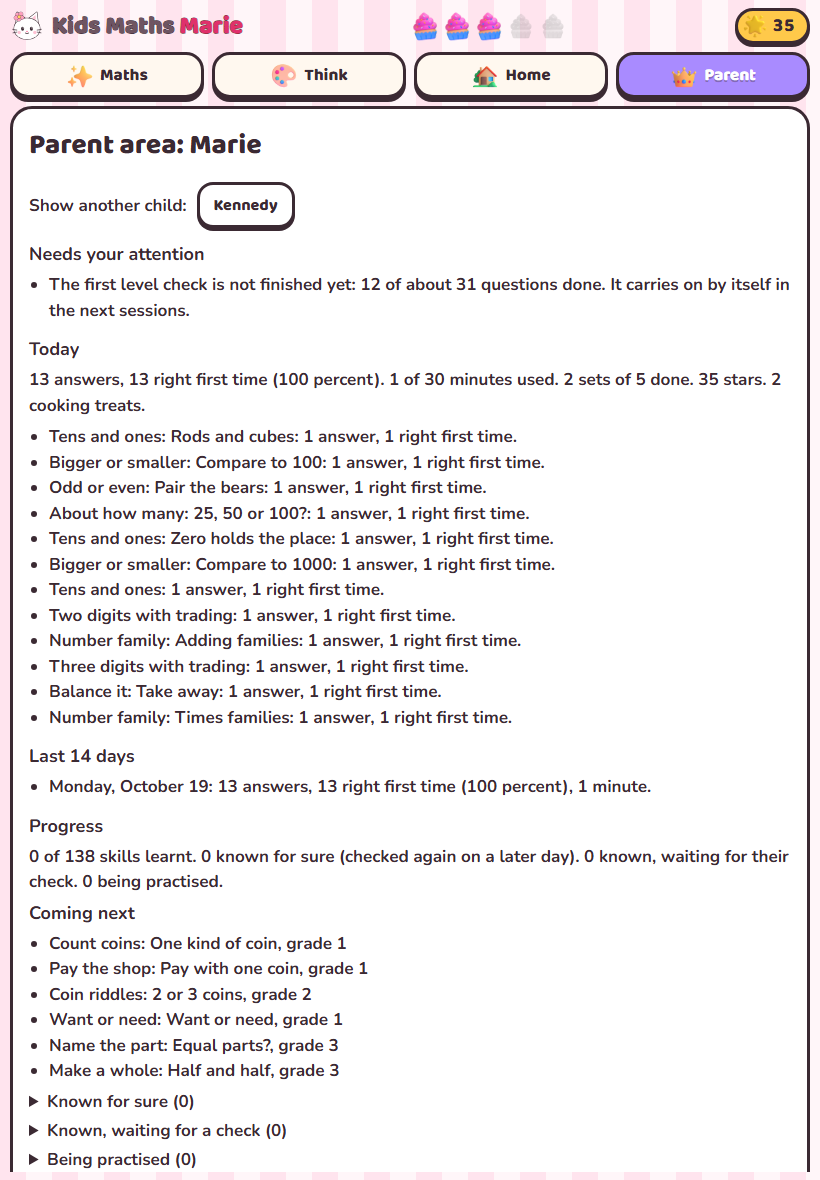
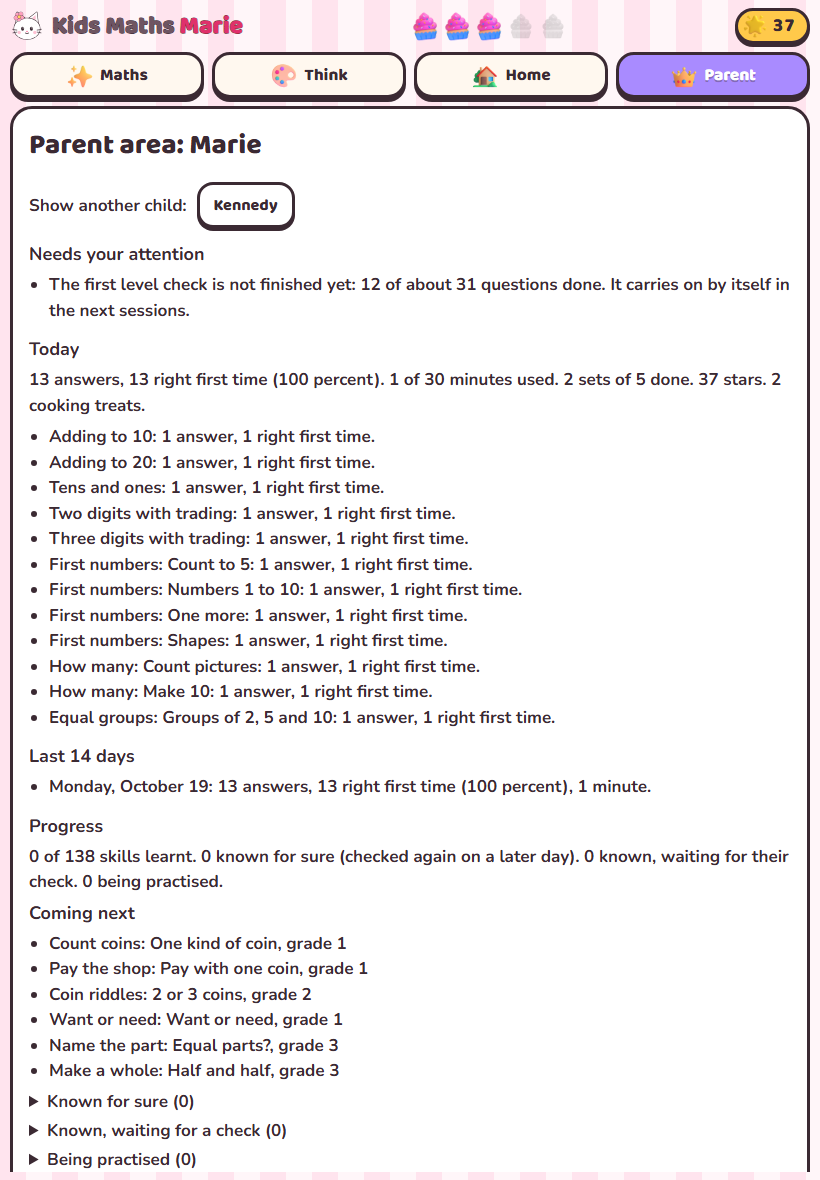
Main road first: sums and taking away lead, one game per set, counting games removed
Claude-Session: https://claude.ai/code/session_01T9KPNPMjnDcrQKtsaSJi3w

Changed region(s): [[0.061, 0.3661, 0.6707, 0.6407]]

diff --git a/modules/engine.js b/modules/engine.js
@@ -23,6 +23,23 @@
     { id: "shapes", name: "Shapes, measuring, graphs and patterns", max: 3 }
   ];
   const PLACE_MAX = 35;
+  // The main road: adding and taking away first (Kennedy: first numbers, then adding). Other topics come in
+  // as 1 set in 4, and only once the first steps of the main road are solid (Aldrin, 19 Oct 2026).
+  const PLACE_ORDER = { kennedy: ["count", "add", "shapes"], other: ["add", "count", "times", "fractions", "money_time", "shapes"] };
+  const CORE = { kennedy: id => /^kinder\./.test(id) || id === "sums.1" || id === "sums.2", other: id => /^sums\./.test(id) };
+  const CORE_FIRST = { kennedy: ["kinder.1"], other: ["sums.1", "sums.2"] };
+  const prof = st => st.profile === "kennedy" ? "kennedy" : "other";
+  // The main road also holds every skill a main-road skill needs first (for example make 10 before adding to 20).
+  const roads = new WeakMap();
+  function road(st) {
+    const M = st._M; if (!M) return null;
+    let r = roads.get(M); if (!r) roads.set(M, r = {});
+    const k = prof(st); if (r[k]) return r[k];
+    const set = new Set(), add = id => { if (set.has(id) || !M.map[id]) return; set.add(id); M.map[id].needs.forEach(add); };
+    M.order.filter(id => CORE[k](id)).forEach(add);
+    return (r[k] = set);
+  }
+  const isCore = (st, id) => { const r = road(st); return r ? r.has(id) : CORE[prof(st)](id); };
 
   /* ---------- The skill map ----------
      Each playable level of each game is one skill. Skills from the Sums screen and the new Grade 4 games are added.
@@ -49,9 +66,11 @@
   // Skills whose games are not built yet go here as [id, name, grade, group, needs]; the engine skips them.
   const LATER = [];
 
+  // Counting games are taken out: both children already count well (Aldrin, 19 Oct 2026). Make 10 stays (it is adding).
+  const RETIRED = new Set(["kinder.0", "kinder.1", "kinder.3", "kinder.4", "count_quick.0", "count_quick.1", "count_quick.2", "count_quick.4", "count_quick.5", "estimate.0", "estimate.1"]);
   function buildSkillMap(topics, extra) {
     const map = {}, order = [];
-    const add = s => { map[s.id] = s; order.push(s.id); };
+    const add = s => { if (RETIRED.has(s.id)) return; map[s.id] = s; order.push(s.id); };
     SUMS.forEach(([id, name, grade], i) => add({ id, name, grade, group: "add", needs: SUMS_NEEDS[id] || [], play: { src: "sums", level: i + 1 }, ready: true }));
     (topics || []).forEach(t => {
       if (!t || !t.id || !Array.isArray(t.levels)) return;
@@ -80,21 +99,29 @@
 
   /* ---------- Placement (design 3.4) ---------- */
   function groupList(M, gid) { return M.order.filter(id => M.map[id].ready && M.map[id].group === gid).sort((a, b) => M.map[a].grade - M.map[b].grade || M.order.indexOf(a) - M.order.indexOf(b)); }
+  // In placement the adding group uses only the Sums game, and Kennedy's counting group starts with his first numbers.
+  function placeList(st, M, gid) {
+    const list = groupList(M, gid);
+    if (gid === "add") return list.filter(id => /^sums\./.test(id) && (prof(st) !== "kennedy" || +id.split(".")[1] <= 4));   // Kennedy: sums to 20 at most
+    if (gid === "count" && prof(st) === "kennedy") return list.filter(id => /^kinder\.|^count_quick\./.test(id));
+    return list;
+  }
   function placementNext(st, M) {
     const P = st.place;
     while (!P.done) {
-      if (P.asked >= PLACE_MAX || P.group >= GROUPS.length) { finishPlacement(st, M); return null; }
-      const g = GROUPS[P.group], list = groupList(M, g.id);
-      const skipGroup = !list.length || (st.profile === "kennedy" && g.id !== "count" && g.id !== "add" && g.id !== "shapes");
+      const order = PLACE_ORDER[prof(st)];
+      if (P.asked >= PLACE_MAX || P.group >= order.length) { finishPlacement(st, M); return null; }
+      const g = GROUPS.find(x => x.id === order[P.group]), list = placeList(st, M, g.id);
+      const skipGroup = !list.length;
       if (skipGroup || P.inGroup >= g.max || P.missRow >= 2) { P.group++; P.pos = -1; P.inGroup = 0; P.missRow = 0; continue; }
-      if (P.pos < 0) { const start = list.findIndex(id => M.map[id].grade >= rules(st).startGrade); P.pos = start < 0 ? list.length - 1 : start; }
+      if (P.pos < 0) { const start = g.id === "add" || g.id === "count" ? 0 : list.findIndex(id => M.map[id].grade >= rules(st).startGrade); P.pos = start < 0 ? list.length - 1 : start; }
       P.pos = Math.max(0, Math.min(list.length - 1, P.pos));
       return { skill: list[P.pos], mode: "place", group: g.id };
     }
     return null;
   }
   function placementRecord(st, M, skillId, correct) {
-    const P = st.place, g = GROUPS[P.group], list = groupList(M, g.id);
+    const P = st.place, g = GROUPS.find(x => x.id === PLACE_ORDER[prof(st)][P.group]), list = placeList(st, M, g.id);
     P.asked++; P.inGroup++;
     if (correct) { P.missRow = 0; P.best[g.id] = Math.max(P.best[g.id] ?? -1, list.indexOf(skillId)); P.pos = Math.min(list.length - 1, P.pos + 2); }
     else { P.missRow++; P.pos = Math.max(0, P.pos - 1); }
@@ -104,7 +131,7 @@
     const P = st.place; P.done = true;
     const t = now || Date.now();
     GROUPS.forEach(g => {
-      const list = groupList(M, g.id), best = P.best[g.id] ?? -1;
+      const list = placeList(st, M, g.id), best = P.best[g.id] ?? -1;
       // Every skill below the highest right answer is a first guess at "knows it", checked soon with 2 quick questions.
       for (let i = 0; i < best; i++) { const s = sk(st, list[i]); if (s.lvl < LV.KNOWS) { s.lvl = LV.KNOWS; s.quick = true; s.due = t + DAY * (1 + (i % 3)); s.gap = 0; } }
     });
@@ -123,6 +150,7 @@
 
   function nextSet(st, M, now, rng) {
     rng = rng || Math.random;
+    const coreOpen = () => M.order.some(id => isCore(st, id) && M.map[id].ready && (st.skills[id]?.lvl || 0) < LV.KNOWS && !(st.skills[id]?.parkedUntil > now));
     if (st.paused) return { kind: "paused", items: [] };
     if (st.parentQs.length) return { kind: "parent", items: st.parentQs.slice(0, 5) };   // the parents' own questions come first
     if (!st.place.done) { const q = placementNext(st, M); if (q) return { kind: "place", target: q.skill, items: [q.skill] }; }
@@ -154,15 +182,23 @@
 
     // 4. Parent focus skills, then weak skills, then a skill already being learnt.
     const focus = st.focus.find(id => usable(id) && (st.skills[id]?.lvl || 0) < LV.KNOWS && M.map[id].needs.every(n => strong(st, n)));
-    if (focus) return make("focus", focus, (st.skills[focus]?.lvl || 0) < LV.PRACTISING ? 5 : 3);
-    const learning = M.order.filter(id => usable(id) && st.skills[id] && st.skills[id].lvl >= LV.SHOWN && st.skills[id].lvl < LV.KNOWS);
+    if (focus) return make("focus", focus, 5);
+    const learning = M.order.filter(id => usable(id) && st.skills[id] && st.skills[id].lvl >= LV.SHOWN && st.skills[id].lvl < LV.KNOWS)
+      .sort((a, b) => (isCore(st, b) ? 1 : 0) - (isCore(st, a) ? 1 : 0));
     const weak = learning.find(id => st.skills[id].recent.length >= 5 && acc(st.skills[id]) < .7);
-    if (weak) return make("weak", weak, 3);
-    if (learning.length) { const id = learning[0]; return make("learn", id, st.skills[id].lvl < LV.PRACTISING ? 5 : 3); }
+    if (weak) return make("weak", weak, 5);
+    if (learning.length && (isCore(st, learning[0]) || !coreOpen())) return make("learn", learning[0], 5);
 
     // 5. A new skill, from the group that is furthest behind; one group never fills more than 2 sets in a row.
     const lastGroups = st.sets.slice(-2).map(k => k.split(":")[1]);
-    const ready = M.order.filter(id => usable(id) && isReady(st, M, id, now));
+    const ready0 = M.order.filter(id => usable(id) && isReady(st, M, id, now));
+    const coreReady = ready0.filter(id => isCore(st, id));
+    const basics = CORE_FIRST[prof(st)].every(id => !M.map[id] || strong(st, id));
+    const coreRun = st.sets.slice(-3).filter(k => k.endsWith(":c")).length;
+    const otherTurn = basics && coreRun >= 3;
+    if (coreReady.length && !otherTurn) return make("new", coreReady[0], 5);
+    if (learning.length && !isCore(st, learning[0]) && basics) return make("learn", learning[0], 5);
+    const ready = basics ? ready0.filter(id => !isCore(st, id)).concat(coreReady) : coreReady.length ? coreReady : ready0;
     if (ready.length) {
       const behind = gid => { const ids = M.order.filter(id => M.map[id].group === gid && M.map[id].ready); return ids.reduce((a, id) => a + (st.skills[id]?.lvl || 0), 0) / Math.max(1, ids.length); };
       const blocked = lastGroups.length === 2 && lastGroups[0] === lastGroups[1] ? lastGroups[0] : null;
@@ -179,7 +215,7 @@
     return { kind: "empty", items: [] };
   }
   function finish(st, kind, target, items) {
-    st.sets.push(kind + ":" + ((st._M && st._M.map[target]) ? st._M.map[target].group : ""));
+    st.sets.push(kind + ":" + ((st._M && st._M.map[target]) ? st._M.map[target].group : "") + (isCore(st, target) ? ":c" : ":o"));
     if (st.sets.length > 40) st.sets = st.sets.slice(-40);
     return { kind, target, items };
   }

diff --git a/src/modules/engine.js b/src/modules/engine.js
@@ -23,6 +23,23 @@
     { id: "shapes", name: "Shapes, measuring, graphs and patterns", max: 3 }
   ];
   const PLACE_MAX = 35;
+  // The main road: adding and taking away first (Kennedy: first numbers, then adding). Other topics come in
+  // as 1 set in 4, and only once the first steps of the main road are solid (Aldrin, 19 Oct 2026).
+  const PLACE_ORDER = { kennedy: ["count", "add", "shapes"], other: ["add", "count", "times", "fractions", "money_time", "shapes"] };
+  const CORE = { kennedy: id => /^kinder\./.test(id) || id === "sums.1" || id === "sums.2", other: id => /^sums\./.test(id) };
+  const CORE_FIRST = { kennedy: ["kinder.1"], other: ["sums.1", "sums.2"] };
+  const prof = st => st.profile === "kennedy" ? "kennedy" : "other";
+  // The main road also holds every skill a main-road skill needs first (for example make 10 before adding to 20).
+  const roads = new WeakMap();
+  function road(st) {
+    const M = st._M; if (!M) return null;
+    let r = roads.get(M); if (!r) roads.set(M, r = {});
+    const k = prof(st); if (r[k]) return r[k];
+    const set = new Set(), add = id => { if (set.has(id) || !M.map[id]) return; set.add(id); M.map[id].needs.forEach(add); };
+    M.order.filter(id => CORE[k](id)).forEach(add);
+    return (r[k] = set);
+  }
+  const isCore = (st, id) => { const r = road(st); return r ? r.has(id) : CORE[prof(st)](id); };
 
   /* ---------- The skill map ----------
      Each playable level of each game is one skill. Skills from the Sums screen and the new Grade 4 games are added.
@@ -49,9 +66,11 @@
   // Skills whose games are not built yet go here as [id, name, grade, group, needs]; the engine skips them.
   const LATER = [];
 
+  // Counting games are taken out: both children already count well (Aldrin, 19 Oct 2026). Make 10 stays (it is adding).
+  const RETIRED = new Set(["kinder.0", "kinder.1", "kinder.3", "kinder.4", "count_quick.0", "count_quick.1", "count_quick.2", "count_quick.4", "count_quick.5", "estimate.0", "estimate.1"]);
   function buildSkillMap(topics, extra) {
     const map = {}, order = [];
-    const add = s => { map[s.id] = s; order.push(s.id); };
+    const add = s => { if (RETIRED.has(s.id)) return; map[s.id] = s; order.push(s.id); };
     SUMS.forEach(([id, name, grade], i) => add({ id, name, grade, group: "add", needs: SUMS_NEEDS[id] || [], play: { src: "sums", level: i + 1 }, ready: true }));
     (topics || []).forEach(t => {
       if (!t || !t.id || !Array.isArray(t.levels)) return;
@@ -80,21 +99,29 @@
 
   /* ---------- Placement (design 3.4) ---------- */
   function groupList(M, gid) { return M.order.filter(id => M.map[id].ready && M.map[id].group === gid).sort((a, b) => M.map[a].grade - M.map[b].grade || M.order.indexOf(a) - M.order.indexOf(b)); }
+  // In placement the adding group uses only the Sums game, and Kennedy's counting group starts with his first numbers.
+  function placeList(st, M, gid) {
+    const list = groupList(M, gid);
+    if (gid === "add") return list.filter(id => /^sums\./.test(id) && (prof(st) !== "kennedy" || +id.split(".")[1] <= 4));   // Kennedy: sums to 20 at most
+    if (gid === "count" && prof(st) === "kennedy") return list.filter(id => /^kinder\.|^count_quick\./.test(id));
+    return list;
+  }
   function placementNext(st, M) {
     const P = st.place;
     while (!P.done) {
-      if (P.asked >= PLACE_MAX || P.group >= GROUPS.length) { finishPlacement(st, M); return null; }
-      const g = GROUPS[P.group], list = groupList(M, g.id);
-      const skipGroup = !list.length || (st.profile === "kennedy" && g.id !== "count" && g.id !== "add" && g.id !== "shapes");
+      const order = PLACE_ORDER[prof(st)];
+      if (P.asked >= PLACE_MAX || P.group >= order.length) { finishPlacement(st, M); return null; }
+      const g = GROUPS.find(x => x.id === order[P.group]), list = placeList(st, M, g.id);
+      const skipGroup = !list.length;
       if (skipGroup || P.inGroup >= g.max || P.missRow >= 2) { P.group++; P.pos = -1; P.inGroup = 0; P.missRow = 0; continue; }
-      if (P.pos < 0) { const start = list.findIndex(id => M.map[id].grade >= rules(st).startGrade); P.pos = start < 0 ? list.length - 1 : start; }
+      if (P.pos < 0) { const start = g.id === "add" || g.id === "count" ? 0 : list.findIndex(id => M.map[id].grade >= rules(st).startGrade); P.pos = start < 0 ? list.length - 1 : start; }
       P.pos = Math.max(0, Math.min(list.length - 1, P.pos));
       return { skill: list[P.pos], mode: "place", group: g.id };
     }
     return null;
   }
   function placementRecord(st, M, skillId, correct) {
-    const P = st.place, g = GROUPS[P.group], list = groupList(M, g.id);
+    const P = st.place, g = GROUPS.find(x => x.id === PLACE_ORDER[prof(st)][P.group]), list = placeList(st, M, g.id);
     P.asked++; P.inGroup++;
     if (correct) { P.missRow = 0; P.best[g.id] = Math.max(P.best[g.id] ?? -1, list.indexOf(skillId)); P.pos = Math.min(list.length - 1, P.pos + 2); }
     else { P.missRow++; P.pos = Math.max(0, P.pos - 1); }
@@ -104,7 +131,7 @@
     const P = st.place; P.done = true;
     const t = now || Date.now();
     GROUPS.forEach(g => {
-      const list = groupList(M, g.id), best = P.best[g.id] ?? -1;
+      const list = placeList(st, M, g.id), best = P.best[g.id] ?? -1;
       // Every skill below the highest right answer is a first guess at "knows it", checked soon with 2 quick questions.
       for (let i = 0; i < best; i++) { const s = sk(st, list[i]); if (s.lvl < LV.KNOWS) { s.lvl = LV.KNOWS; s.quick = true; s.due = t + DAY * (1 + (i % 3)); s.gap = 0; } }
     });
@@ -123,6 +150,7 @@
 
   function nextSet(st, M, now, rng) {
     rng = rng || Math.random;
+    const coreOpen = () => M.order.some(id => isCore(st, id) && M.map[id].ready && (st.skills[id]?.lvl || 0) < LV.KNOWS && !(st.skills[id]?.parkedUntil > now));
     if (st.paused) return { kind: "paused", items: [] };
     if (st.parentQs.length) return { kind: "parent", items: st.parentQs.slice(0, 5) };   // the parents' own questions come first
     if (!st.place.done) { const q = placementNext(st, M); if (q) return { kind: "place", target: q.skill, items: [q.skill] }; }
@@ -154,15 +182,23 @@
 
     // 4. Parent focus skills, then weak skills, then a skill already being learnt.
     const focus = st.focus.find(id => usable(id) && (st.skills[id]?.lvl || 0) < LV.KNOWS && M.map[id].needs.every(n => strong(st, n)));
-    if (focus) return make("focus", focus, (st.skills[focus]?.lvl || 0) < LV.PRACTISING ? 5 : 3);
-    const learning = M.order.filter(id => usable(id) && st.skills[id] && st.skills[id].lvl >= LV.SHOWN && st.skills[id].lvl < LV.KNOWS);
+    if (focus) return make("focus", focus, 5);
+    const learning = M.order.filter(id => usable(id) && st.skills[id] && st.skills[id].lvl >= LV.SHOWN && st.skills[id].lvl < LV.KNOWS)
+      .sort((a, b) => (isCore(st, b) ? 1 : 0) - (isCore(st, a) ? 1 : 0));
     const weak = learning.find(id => st.skills[id].recent.length >= 5 && acc(st.skills[id]) < .7);
-    if (weak) return make("weak", weak, 3);
-    if (learning.length) { const id = learning[0]; return make("learn", id, st.skills[id].lvl < LV.PRACTISING ? 5 : 3); }
+    if (weak) return make("weak", weak, 5);
+    if (learning.length && (isCore(st, learning[0]) || !coreOpen())) return make("learn", learning[0], 5);
 
     // 5. A new skill, from the group that is furthest behind; one group never fills more than 2 sets in a row.
     const lastGroups = st.sets.slice(-2).map(k => k.split(":")[1]);
-    const ready = M.order.filter(id => usable(id) && isReady(st, M, id, now));
+    const ready0 = M.order.filter(id => usable(id) && isReady(st, M, id, now));
+    const coreReady = ready0.filter(id => isCore(st, id));
+    const basics = CORE_FIRST[prof(st)].every(id => !M.map[id] || strong(st, id));
+    const coreRun = st.sets.slice(-3).filter(k => k.endsWith(":c")).length;
+    const otherTurn = basics && coreRun >= 3;
+    if (coreReady.length && !otherTurn) return make("new", coreReady[0], 5);
+    if (learning.length && !isCore(st, learning[0]) && basics) return make("learn", learning[0], 5);
+    const ready = basics ? ready0.filter(id => !isCore(st, id)).concat(coreReady) : coreReady.length ? coreReady : ready0;
     if (ready.length) {
       const behind = gid => { const ids = M.order.filter(id => M.map[id].group === gid && M.map[id].ready); return ids.reduce((a, id) => a + (st.skills[id]?.lvl || 0), 0) / Math.max(1, ids.length); };
       const blocked = lastGroups.length === 2 && lastGroups[0] === lastGroups[1] ? lastGroups[0] : null;
@@ -179,7 +215,7 @@
     return { kind: "empty", items: [] };
   }
   function finish(st, kind, target, items) {
-    st.sets.push(kind + ":" + ((st._M && st._M.map[target]) ? st._M.map[target].group : ""));
+    st.sets.push(kind + ":" + ((st._M && st._M.map[target]) ? st._M.map[target].group : "") + (isCore(st, target) ? ":c" : ":o"));
     if (st.sets.length > 40) st.sets = st.sets.slice(-40);
     return { kind, target, items };
   }

diff --git a/tests/engine_test.js b/tests/engine_test.js
@@ -40,6 +40,7 @@ function runDays(c, days, setsPerDay, start = Date.UTC(2026, 9, 20, 16)) {
 
 // 1. The map
 const ready = M.order.filter(id => M.map[id].ready);
+ok("no counting games left", !["kinder.0", "kinder.1", "count_quick.0", "count_quick.1", "estimate.0"].some(id => M.map[id]) && M.map["count_quick.3"]);
 ok("map has sums, games and times skills", M.map["sums.1"] && ready.length > 60 && M.map["times_facts.9"] && M.map["times_chant.0"], { ready: ready.length, all: M.order.length });
 ok("every need points to a real skill", M.order.every(id => M.map[id].needs.every(n => M.map[n])));
 const cyc = (() => { const seen = {}, on = {}; const dfs = id => { if (on[id]) return true; if (seen[id]) return false; seen[id] = on[id] = true; const r = M.map[id].needs.some(dfs); on[id] = false; return r; }; return M.order.some(dfs); })();
@@ -88,15 +89,15 @@ ok("no circular needs", !cyc);
 { const c = child("marie", { grade: 3, guess: .9, slip: .02, seed: 8 });
   const log = runDays(c, 20, 6).filter(l => l.kind === "new" || l.kind === "sweep");
   const g1 = log.filter(l => M.map[l.target].grade <= 1).length;
-  ok("strong child spends few sets on easy new work (at most 8 of 120)", g1 <= 8, g1);
+  ok("strong child spends few sets on easy new work (at most 10 of 120)", g1 <= 10, g1);
   const g3 = M.order.filter(id => M.map[id].grade >= 3 && (c.st.skills[id]?.lvl || 0) >= 3).length;
   ok("strong child reaches many Grade 3 skills in 20 days", g3 >= 15, g3);
 }
 
 // 7. Daily limit per skill
-{ const c = child("kennedy", { grade: 0, weak: { "count_quick.0": 99 }, seed: 9 });
+{ const c = child("kennedy", { grade: 0, weak: { "kinder.2": 99 }, seed: 9 });
   runDays(c, 3, 10);
-  const today = c.st.dayCounts["count_quick.0"] || 0;
+  const today = c.st.dayCounts["kinder.2"] || 0;
   ok("one skill is asked at most 8 times a day for Kennedy", today <= 8, today);
 }
 
@@ -115,5 +116,28 @@ ok("no circular needs", !cyc);
   ok("parent questions come first", E.nextSet(st, M, Date.now()).kind === "parent");
 }
 
+// 10. Main road first: Marie starts with sums; Kennedy with first numbers; a learning set is one game
+{ const c = child("marie", { grade: 1, seed: 11 });
+  const first = E.nextSet(c.st, M, Date.UTC(2026, 9, 20), c.rng);
+  ok("Marie's very first question is a sum", /^sums\./.test(first.items[0]), first.items[0]);
+  const log = runDays(c, 6, 6).filter(l => l.kind !== "place");
+  const road = l => /^sums\.|^count_quick\.3$|^place_value\.[0-2]$/.test(l.target);   // sums, make 10, and tens and ones that sums need
+  const firstTen = log.slice(0, 10).filter(road).length;
+  ok("at least 7 of Marie's first 10 sets are sums or what sums need (make 10, tens and ones)", firstTen >= 7, log.slice(0, 10).map(l => l.target));
+  const sumsSets = log.slice(0, 10).filter(l => /^sums\./.test(l.target)).length;
+  ok("at least 5 of Marie's first 10 sets are real sums", sumsSets >= 5, sumsSets);
+}
+{ const c = child("kennedy", { grade: 0, seed: 12 });
+  const first = E.nextSet(c.st, M, Date.UTC(2026, 9, 20), c.rng);
+  ok("Kennedy's very first question is a first-numbers game", /^kinder\./.test(first.items[0]), first.items[0]);
+}
+{ const c = child("marie", { grade: 2, seed: 13 }); let mixed = 0;
+  for (let d = 0; d < 10; d++) for (let k = 0; k < 6; k++) { const s = E.nextSet(c.st, M, Date.UTC(2026, 9, 20) + d * DAY + k * 1e5, c.rng);
+    if (s.kind === "place") { E.placementRecord(c.st, M, s.items[0], c.answer(s.items[0])); continue; }
+    if (["new", "learn", "weak", "focus"].includes(s.kind) && new Set(s.items).size > 1 && s.items.filter(x => x === s.target).length === 5 - 0) mixed++;
+    if (["new", "learn", "weak", "focus"].includes(s.kind) && s.items.some(x => x !== s.target) && (c.st.dayCounts[s.target] || 0) < 7) mixed++;
+    s.items.forEach(id => E.record(c.st, M, { skill: id, correct: c.answer(id) }, Date.UTC(2026, 9, 20) + d * DAY + k * 1e5 + 1)); }
+  ok("a learning set stays on one game (no jumping)", mixed === 0, mixed);
+}
 console.log(`RESULT ${pass}/${pass + fail} passed`);
 process.exit(fail ? 1 : 0);
